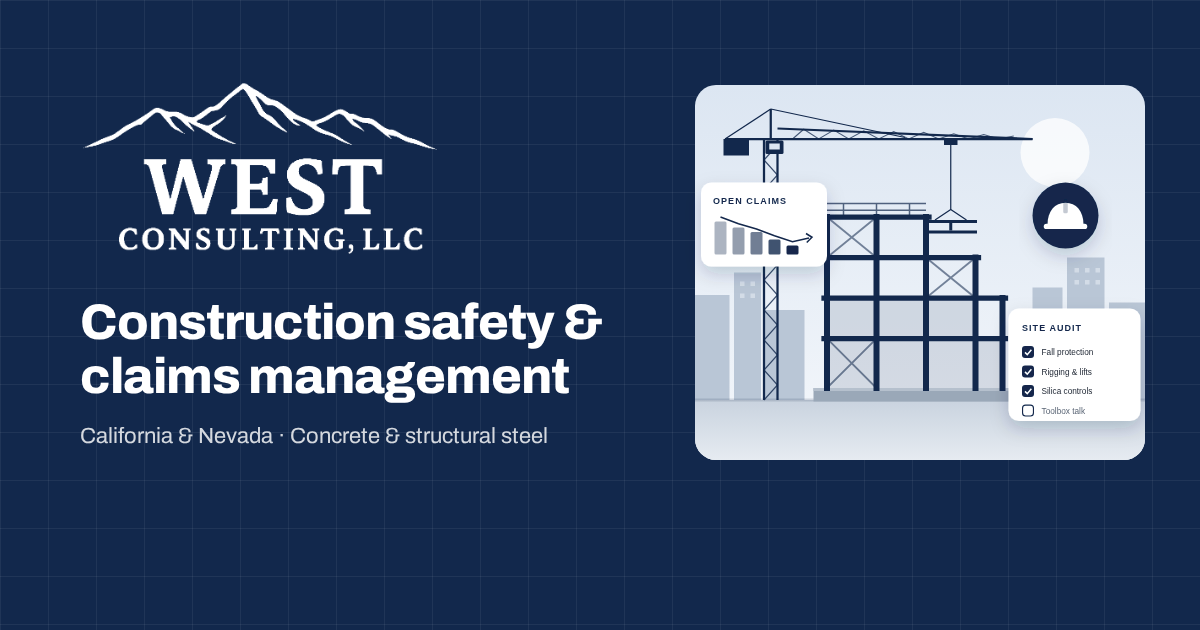
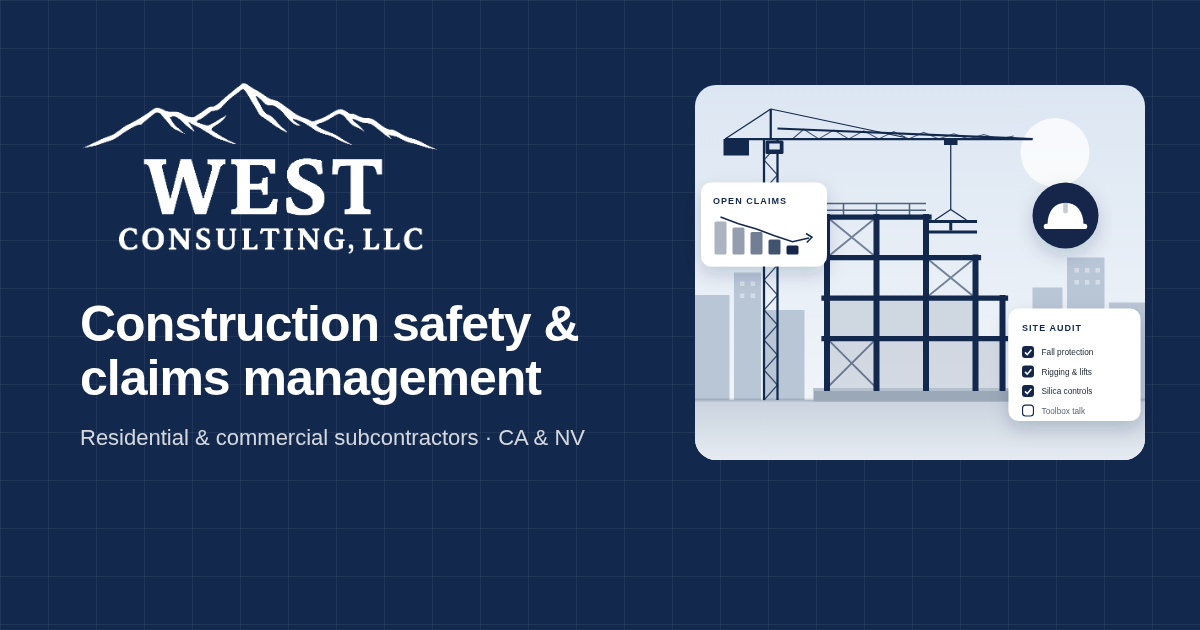
Position the firm for residential and commercial subcontractors
Replace concrete and structural steel references across copy, metadata,
structured data and the share image. The trade tiles are now residential
subcontractors, commercial subcontractors, two-state operations and
multi-entity groups.

Claude-Session: https://claude.ai/code/session_01TTuPCt7yAYBNEnSw9Gmq3t

Changed region(s): [[0.0617, 0.4825, 0.5242, 0.7238]]

diff --git a/index.html b/index.html
@@ -4,14 +4,14 @@
   <meta charset="utf-8">
   <meta name="viewport" content="width=device-width, initial-scale=1">
   <title>West Consulting LLC | Construction Safety &amp; Claims Management</title>
-  <meta name="description" content="Independent safety and claims consulting for concrete and structural steel contractors in California and Nevada. Claims portfolio review, experience mod analysis, Cal/OSHA and Nevada OSHA citation response, safety programs and captive advisory. Based in Gardnerville, NV.">
+  <meta name="description" content="Independent safety and claims consulting for residential and commercial subcontractors in California and Nevada. Claims portfolio review, experience mod analysis, Cal/OSHA and Nevada OSHA citation response, safety programs and captive advisory. Based in Gardnerville, NV.">
   <meta name="theme-color" content="#12284C">
   <link rel="canonical" href="https://westconsultingllc.net/">
 
   <meta property="og:type" content="website">
   <meta property="og:site_name" content="West Consulting LLC">
   <meta property="og:title" content="West Consulting LLC | Construction Safety &amp; Claims Management">
-  <meta property="og:description" content="The claims already open, and the injuries that haven't happened yet. Independent safety and claims consulting for concrete and structural steel contractors in California and Nevada.">
+  <meta property="og:description" content="The claims already open, and the injuries that haven't happened yet. Independent safety and claims consulting for residential and commercial subcontractors in California and Nevada.">
   <meta property="og:url" content="https://westconsultingllc.net/">
   <meta property="og:image" content="https://westconsultingllc.net/assets/og-image.png">
   <meta name="twitter:card" content="summary_large_image">
@@ -33,7 +33,7 @@
     "url": "https://westconsultingllc.net/",
     "logo": "https://westconsultingllc.net/assets/logo.png",
     "image": "https://westconsultingllc.net/assets/og-image.png",
-    "description": "Independent safety and claims consulting for concrete and structural steel contractors in California and Nevada.",
+    "description": "Independent safety and claims consulting for residential and commercial subcontractors in California and Nevada.",
     "email": "rick@westconsultingllc.net",
     "address": {
       "@type": "PostalAddress",
@@ -75,7 +75,7 @@
         <div class="hero-copy">
           <p class="eyebrow">Construction safety &amp; claims consulting</p>
           <h1>Fewer injuries. Faster claim closure. A lower cost of risk.</h1>
-          <p class="lead">West Consulting works with concrete and structural steel contractors in California and Nevada on the two things that drive insurance cost: the claims already open, and the injuries that haven't happened yet.</p>
+          <p class="lead">West Consulting works with residential and commercial subcontractors in California and Nevada on the two things that drive insurance cost: the claims already open, and the injuries that haven't happened yet.</p>
           <div class="hero-actions">
             <a class="btn" href="#contact">Start with your loss runs</a>
             <a class="btn btn-ghost" href="#services">See services</a>
@@ -96,7 +96,7 @@
     <section class="strip" aria-label="At a glance">
       <div class="container strip-grid">
         <div><strong>CA + NV</strong><span>Two states, two different jobs</span></div>
-        <div><strong>Concrete &amp; Steel</strong><span>The trades we know best</span></div>
+        <div><strong>Residential &amp; Commercial</strong><span>Subcontractors are our focus</span></div>
         <div><strong>Claims + Prevention</strong><span>Both halves of your mod</span></div>
         <div><strong>Captive fluency</strong><span>Frequency funds and refunds</span></div>
       </div>
@@ -377,18 +377,18 @@
         <div class="industry-grid">
           <div class="industry reveal">
             <svg class="industry-art" viewBox="0 0 120 80" aria-hidden="true"><rect x="8" y="56" width="104" height="14" rx="2"/><path d="M20 56V40h24v16M52 56V30h28v26M86 56V44h16v12" fill="none" stroke-width="4"/><path d="M14 50h92" stroke-dasharray="4 4" fill="none" stroke-width="2"/></svg>
-            <h3>Residential concrete</h3>
-            <p>Foundations, flatwork and pumping crews with high exertion and slip, trip and fall exposure.</p>
+            <h3>Residential subcontractors</h3>
+            <p>Production and custom home trades with high-frequency exertion, slip, trip and fall exposure.</p>
           </div>
           <div class="industry reveal">
             <svg class="industry-art" viewBox="0 0 120 80" aria-hidden="true"><path d="M14 70V20h92v50" fill="none" stroke-width="4"/><path d="M14 20l20-12h52l20 12" fill="none" stroke-width="4"/><path d="M30 34h60M30 46h60M30 58h60" fill="none" stroke-width="3"/></svg>
-            <h3>Commercial concrete</h3>
-            <p>Tilt-up, place and finish, and data center work with heavy lifts and tight schedules.</p>
+            <h3>Commercial subcontractors</h3>
+            <p>Ground-up commercial, tilt-up and data center work with heavy lifts, work at height and tight schedules.</p>
           </div>
           <div class="industry reveal">
-            <svg class="industry-art" viewBox="0 0 120 80" aria-hidden="true"><path d="M24 72V14M60 72V14M96 72V14M20 18h80M20 44h80" fill="none" stroke-width="5"/><path d="M24 44l36-26M60 44l36-26" fill="none" stroke-width="2"/></svg>
-            <h3>Structural steel</h3>
-            <p>Fabrication shops and erection crews working at height, with rigging and crane operations.</p>
+            <svg class="industry-art" viewBox="0 0 120 80" aria-hidden="true"><rect x="8" y="16" width="40" height="52" rx="3" fill="none" stroke-width="4"/><rect x="72" y="16" width="40" height="52" rx="3" fill="none" stroke-width="4"/><path d="M52 34h16M62 28l6 6-6 6M68 50H52M58 44l-6 6 6 6" fill="none" stroke-width="3"/><text x="28" y="48" font-family="Archivo, Arial, sans-serif" font-size="14" font-weight="800" text-anchor="middle" stroke="none">CA</text><text x="92" y="48" font-family="Archivo, Arial, sans-serif" font-size="14" font-weight="800" text-anchor="middle" stroke="none">NV</text></svg>
+            <h3>Two-state operations</h3>
+            <p>Crews working both sides of the state line, with two OSHA programs, two comp systems and two mods.</p>
           </div>
           <div class="industry reveal">
             <svg class="industry-art" viewBox="0 0 120 80" aria-hidden="true"><rect x="10" y="22" width="44" height="48" rx="3" fill="none" stroke-width="4"/><rect x="66" y="10" width="44" height="60" rx="3" fill="none" stroke-width="4"/><path d="M20 34h24M20 44h24M20 54h14M76 22h24M76 32h24M76 42h24M76 52h14" fill="none" stroke-width="3"/></svg>
@@ -401,7 +401,7 @@
           <div class="fit reveal">
             <h3>A strong fit if you are</h3>
             <ul class="checks">
-              <li>A concrete or structural steel contractor with roughly 50 to 500 field employees in California, Nevada or both</li>
+              <li>A residential or commercial subcontractor with roughly 50 to 500 field employees in California, Nevada or both</li>
               <li>Carrying a mod above 1.00, or below it and defending it</li>
               <li>In a group captive, entering one or being pitched one</li>
               <li>Coming off a serious citation, a serious injury or a prequalification rejection</li>
@@ -446,11 +446,11 @@
         <div>
           <p class="eyebrow">About the firm</p>
           <h2>An independent practice that has walked the jobsite and read the loss run</h2>
-          <p>West Consulting LLC is an independent safety and claims practice based in Gardnerville, Nevada, serving concrete and structural steel contractors in California and Nevada. We are not a broker and we are not paid by a carrier or TPA, so there is no commission and no conflict.</p>
+          <p>West Consulting LLC is an independent safety and claims practice based in Gardnerville, Nevada, serving residential and commercial subcontractors in California and Nevada. We are not a broker and we are not paid by a carrier or TPA, so there is no commission and no conflict.</p>
           <p>We are not a full-time safety manager either. We work alongside whoever owns safety inside your company and take on what one person can't do alone: the portfolio view of the loss data, the claims side, and documentation that holds up in front of a compliance officer.</p>
           <div class="engagement">
             <p class="engagement-label">Representative engagement</p>
-            <p>Our longest-running engagement is a multi-entity construction group operating in California and Nevada: concrete and structural steel, several operating companies, all members of a group captive. We manage the claims portfolio across the entities, analyze loss data by division, and produce the safety programs and training the field actually uses.</p>
+            <p>Our longest-running engagement is a multi-entity construction group operating in California and Nevada: residential and commercial subcontracting, several operating companies, all members of a group captive. We manage the claims portfolio across the entities, analyze loss data by division, and produce the safety programs and training the field actually uses.</p>
             <p class="engagement-note">We don't name clients. Yours would get the same treatment.</p>
           </div>
         </div>
